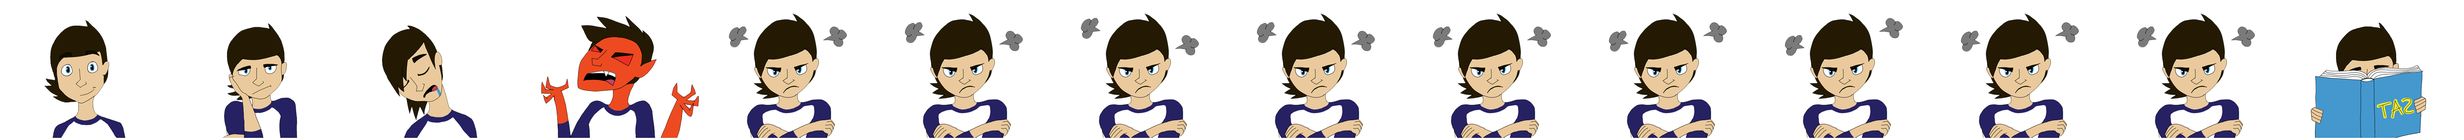
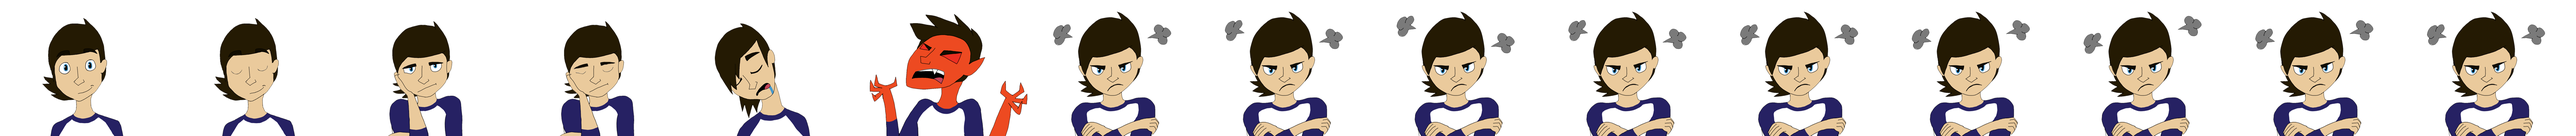
animation stufffff

diff --git a/core/src/edu/cornell/gdiac/mangosnoops/hudentity/Child.java b/core/src/edu/cornell/gdiac/mangosnoops/hudentity/Child.java
@@ -28,13 +28,15 @@ public class Child extends Image {
      * These indices indicate which section of the filmstrip corresponds
      * to which mood
      */
-    private final static int NED_HAPPY_INDEX = 0;
-    private final static int NED_NEUTRAL_INDEX = 1;
-    private final static int NED_SLEEP_INDEX = 2;
-    private final static int NED_CRITICAL_INDEX = 3;
-    private final static int NED_SAD_START_INDEX = 4;
-    private final static int NED_SAD_END_INDEX = 12;
-    private final static int NED_SAT_INDEX = 13;
+    private final static int NED_HAPPY_START_INDEX = 0;
+    private final static int NED_HAPPY_END_INDEX = 1;
+    private final static int NED_NEUTRAL_START_INDEX = 2;
+    private final static int NED_NEUTRAL_END_INDEX = 3;
+    private final static int NED_SLEEP_INDEX = 4;
+    private final static int NED_CRITICAL_INDEX = 5;
+    private final static int NED_SAD_START_INDEX = 6;
+    private final static int NED_SAD_END_INDEX = 14;
+    private final static int NED_SAT_INDEX = 15;
 
     private final static int NOSH_HAPPY_INDEX = 0;
     private final static int NOSH_NEUTRAL_INDEX = 1;
@@ -133,9 +135,7 @@ public class Child extends Image {
             NOSH_SPEECH_BUBBLE_COORDS = new Vector2(MathUtils.random(0.3f, 0.65f), MathUtils.random(0.45f, 0.75f));
             position = new Vector2(0.9f, 0.81f);
         }
-        Random rand = new Random();
-        int animSpeedInt = rand.nextInt(5) + 20;
-        ANIMATION_SPEED = (float) animSpeedInt / 100f;
+        ANIMATION_SPEED = 0.3f;
 
         ctype = type;
         happiness = HAPPY_UBOUND;
@@ -145,14 +145,14 @@ public class Child extends Image {
         upperFrameBound = new ObjectMap<Mood, Integer>();
 
         if (type == ChildType.NED) {
-            lowerFrameBound.put(Mood.HAPPY, NED_HAPPY_INDEX);
-            lowerFrameBound.put(Mood.NEUTRAL, NED_NEUTRAL_INDEX);
+            lowerFrameBound.put(Mood.HAPPY, NED_HAPPY_START_INDEX);
+            lowerFrameBound.put(Mood.NEUTRAL, NED_NEUTRAL_START_INDEX);
             lowerFrameBound.put(Mood.SAD, NED_SAD_START_INDEX);
             lowerFrameBound.put(Mood.CRITICAL, NED_CRITICAL_INDEX);
             lowerFrameBound.put(Mood.SLEEP, NED_SLEEP_INDEX);
 
-            upperFrameBound.put(Mood.HAPPY, NED_HAPPY_INDEX);
-            upperFrameBound.put(Mood.NEUTRAL, NED_NEUTRAL_INDEX);
+            upperFrameBound.put(Mood.HAPPY, NED_HAPPY_END_INDEX);
+            upperFrameBound.put(Mood.NEUTRAL, NED_NEUTRAL_END_INDEX);
             upperFrameBound.put(Mood.SAD, NED_SAD_END_INDEX);
             upperFrameBound.put(Mood.CRITICAL, NED_CRITICAL_INDEX);
             upperFrameBound.put(Mood.SLEEP, NED_SLEEP_INDEX);
@@ -286,10 +286,9 @@ public class Child extends Image {
             animationFrame = lowerFrameBound.get(getCurrentMood());
         }
 
-        animationFrame += ANIMATION_SPEED;
-        if (animationFrame >= upperFrameBound.get(getCurrentMood())) {
-            animationFrame = lowerFrameBound.get(getCurrentMood());
-        }
+        float hi = upperFrameBound.get(getCurrentMood());
+        float lo = lowerFrameBound.get(getCurrentMood());
+        animationFrame = ((animationFrame + ANIMATION_SPEED) % hi) + lo;
 
         currentFilmStrip.setFrame((int) animationFrame);
     }

diff --git a/core/src/edu/cornell/gdiac/mangosnoops/GameplayController.java b/core/src/edu/cornell/gdiac/mangosnoops/GameplayController.java
@@ -105,7 +105,7 @@ public class GameplayController {
 	protected static final int NOSH_FILMSTRIP_ROWS = 1;
 	protected static final int NOSH_FILMSTRIP_COLS = 13;
 	protected static final int NED_FILMSTRIP_ROWS = 1;
-	protected static final int NED_FILMSTRIP_COLS = 14;
+	protected static final int NED_FILMSTRIP_COLS = 15;
 
 	// Graphics assets for the entities
 	/** The texture file for the visor **/
